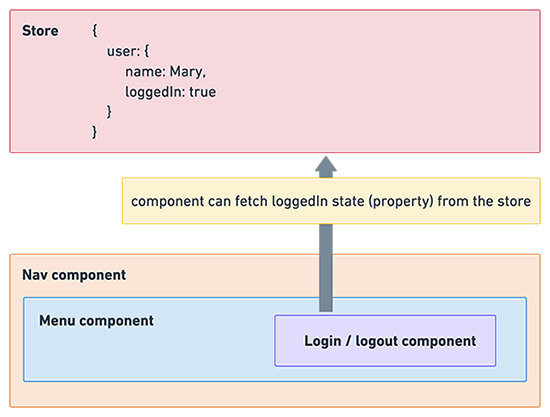
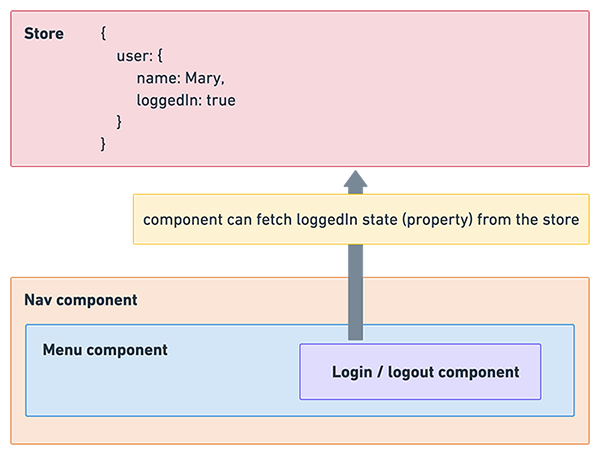
Update lesson 3

diff --git a/lessons/lesson3.md b/lessons/lesson3.md
@@ -10,7 +10,7 @@ State management allows us to access props and data from a `store` no matter whe
 
 <!-- ![The store](/images/redux-1.png) -->
 
-<img src="../images/redux-1.png" alt="The store" width="550" height="417" />
+<img src="../images/redux-1.png" alt="The store" width="600" height="455" />
 
 [Redux](https://redux.js.org/) is a state management library with a lot of legacy code weight. It can be a difficult libary to understand, and if you feel lost at first you are joining just about every other developer in the world.
 
